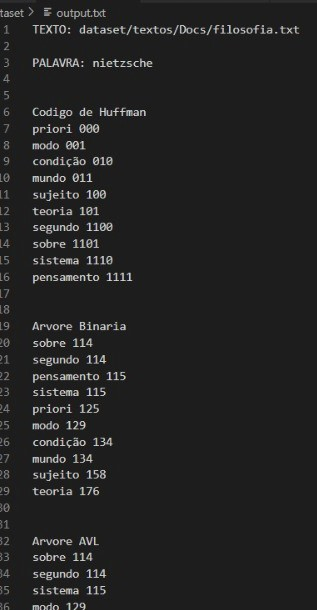
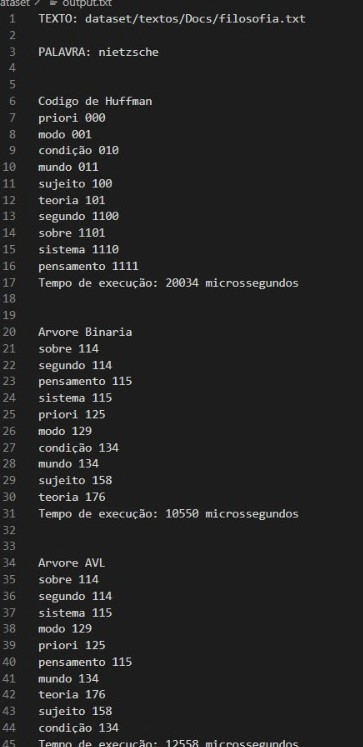
Add files via upload

diff --git a/src/Arvore.cpp b/src/Arvore.cpp
@@ -8,30 +8,27 @@ Arvore::Arvore()
 void Arvore::inserirAux(No *no, string palavra, int quantidade)
 {
 
-    // Se a palavra é menor que a palavra do nó, insere no filho esquerdo
     if (quantidade < no->quantidade)
     {
-        // Se o filho esquerdo é nulo, cria um novo nó como filho esquerdo
+       
         if (no->esquerdo == nullptr)
         {
             no->esquerdo = new No(palavra, quantidade, nullptr, nullptr);
         }
         else
         {
-            // Senão, chama o método recursivo para inserir no filho esquerdo
+           
             inserirAux(no->esquerdo, palavra, quantidade);
         }
     }
     else if (quantidade > no->quantidade)
     {
-        // Se a palavra é maior que a palavra do nó, insere no filho direito
         if (no->direito == nullptr)
         {
             no->direito = new No(palavra, quantidade, nullptr, nullptr);
         }
         else
         {
-            // Senão, chama o método recursivo para inserir no filho direito
             inserirAux(no->direito, palavra, quantidade);
         }
     }
@@ -46,20 +43,18 @@ void Arvore::inserirAux(No *no, string palavra, int quantidade)
             }
             else
             {
-                // Senão, chama o método recursivo para inserir no filho esquerdo
+                
                 inserirAux(no->esquerdo, palavra, quantidade);
             }
         }
         else
         {
-            // Se a palavra é maior que a palavra do nó, insere no filho direito
             if (no->direito == nullptr)
             {
                 no->direito = new No(palavra, quantidade, nullptr, nullptr);
             }
             else
             {
-                // Senão, chama o método recursivo para inserir no filho direito
                 inserirAux(no->direito, palavra, quantidade);
             }
         }

diff --git a/src/read.cpp b/src/read.cpp
@@ -176,15 +176,27 @@ void Heap(unordered_map<string, int> &hash, vector<No> &heap, unordered_map<stri
     F << endl
       << endl
       << "Codigo de Huffman" << endl;
+    auto start = std::chrono::high_resolution_clock::now();
     huffman.HuffmanCodes(heap);
+    auto end = std::chrono::high_resolution_clock::now();
+    auto duration = std::chrono::duration_cast<std::chrono::microseconds>(end - start);
+    F << "Tempo de execução: " << duration.count() << " microssegundos" << std::endl;
     F << endl
       << endl;
     F << "Arvore Binaria" << endl;
+    auto startB = std::chrono::high_resolution_clock::now();
     arvore.inserir(heap);
+    auto endB = std::chrono::high_resolution_clock::now();
+    auto durationB = std::chrono::duration_cast<std::chrono::microseconds>(endB - startB);
+    F << "Tempo de execução: " << durationB.count() << " microssegundos" << std::endl;
     F << endl
       << endl
       << "Arvore AVL" << endl;
+    auto startAVL = std::chrono::high_resolution_clock::now();
     avl.inserir(heap);
+    auto endAVL = std::chrono::high_resolution_clock::now();
+    auto durationAVL = std::chrono::duration_cast<std::chrono::microseconds>(endAVL - startAVL);
+    F << "Tempo de execução: " << durationAVL.count() << " microssegundos" << std::endl;
 
     heap.clear();
 }

diff --git a/src/Huffman.cpp b/src/Huffman.cpp
@@ -100,26 +100,6 @@ void Huffman::HuffmanCodes(vector<No> &heap)
     imprimirCodes(rootH, array, top);
     cout << endl
          << endl;
-    // outHuff(rootH, array, top);
-    // clearHuffmanTree(rootH);
 
-    // auto endH = chrono::steady_clock::now();
-    // cout << "\nTEMPO HUFFMAN: " << chrono::duration_cast<chrono::nanoseconds>(endH - startH).count() << " ns" << endl << endl;
 }
 
-// imprimi a fila
-
-/*void printPriorityQueue(priority_queue<Huffman *, vector<Huffman *>, Compare> &huff)
-{
-
-    cout << "\nPriority Queue: ";
-    priority_queue<Huffman *, vector<Huffman *>, Compare> temphuff = huff;
-
-    while (!temphuff.empty())
-    {
-        cout << temphuff.top()->raiz->palavra << "(" << temphuff.top()->raiz->quantidade << ") ";
-        temphuff.pop();
-    }
-    cout << endl
-         << endl;
-}*/

diff --git a/src/No.hpp b/src/No.hpp
@@ -6,6 +6,7 @@
 #include <cctype>
 #include <iomanip>
 #include <vector>
+#include <chrono>
 #define constante 10
 
 using namespace std;
